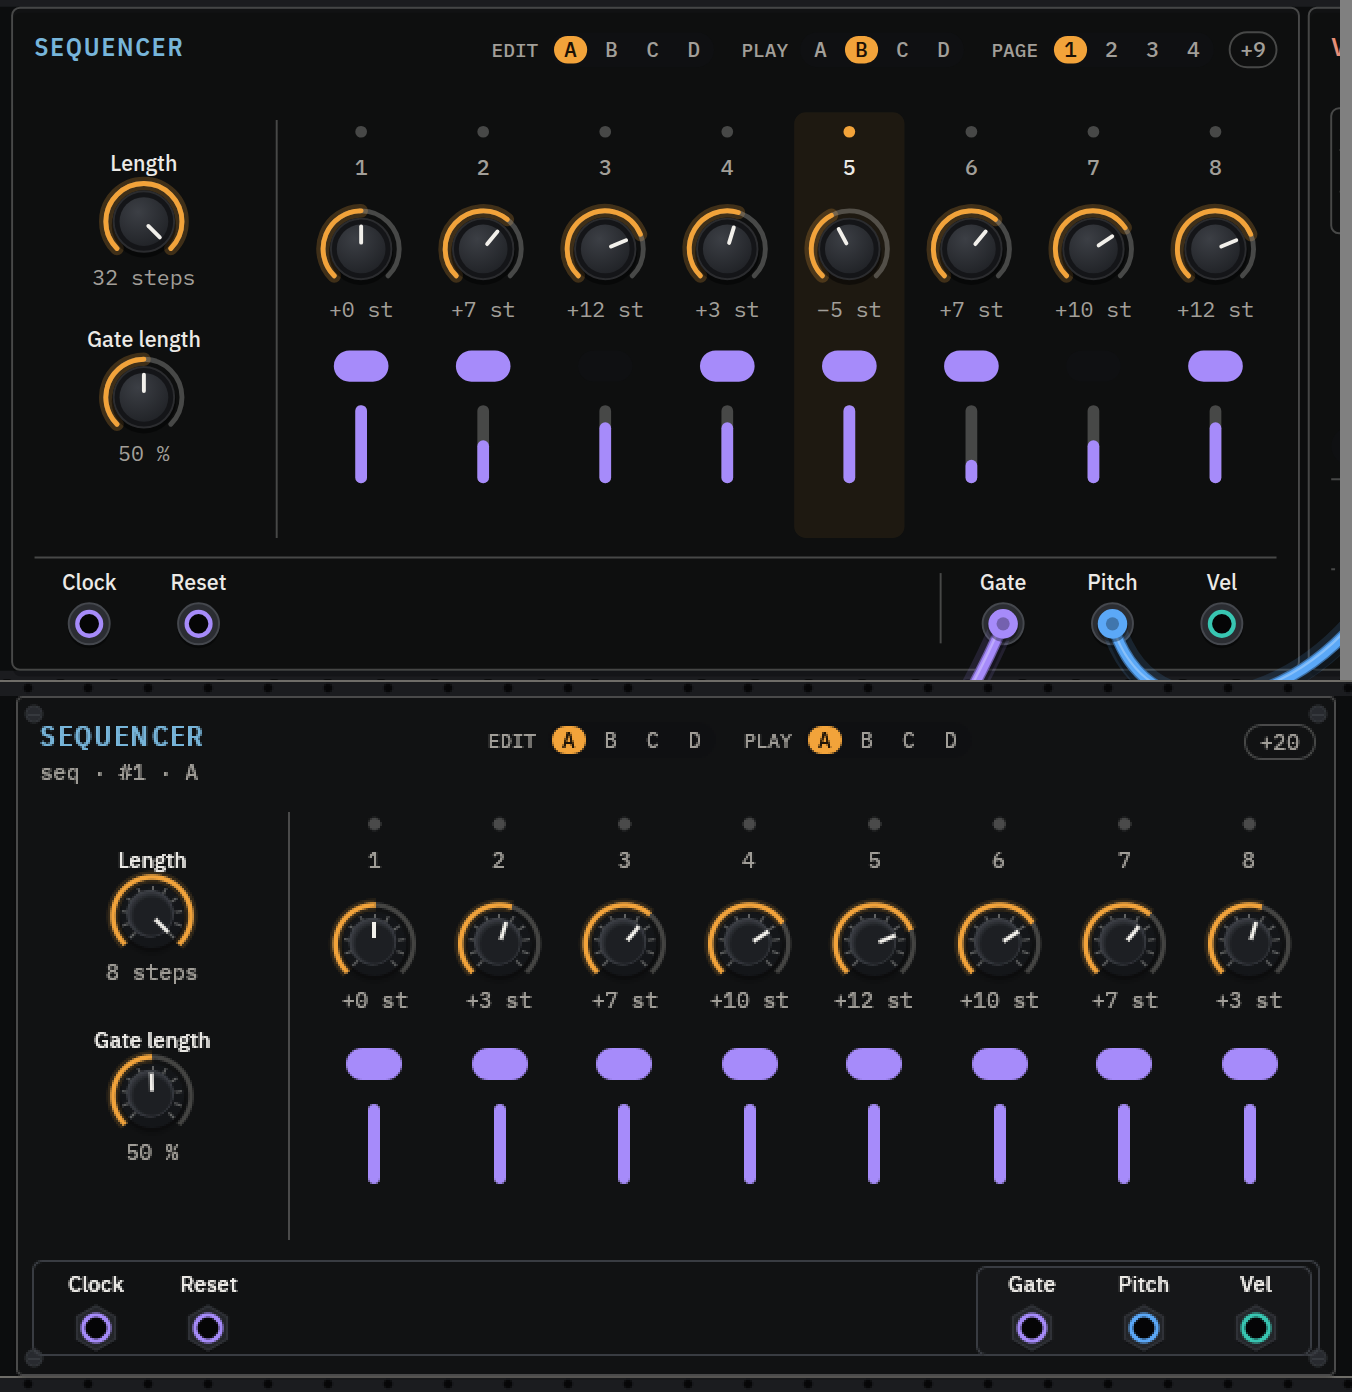
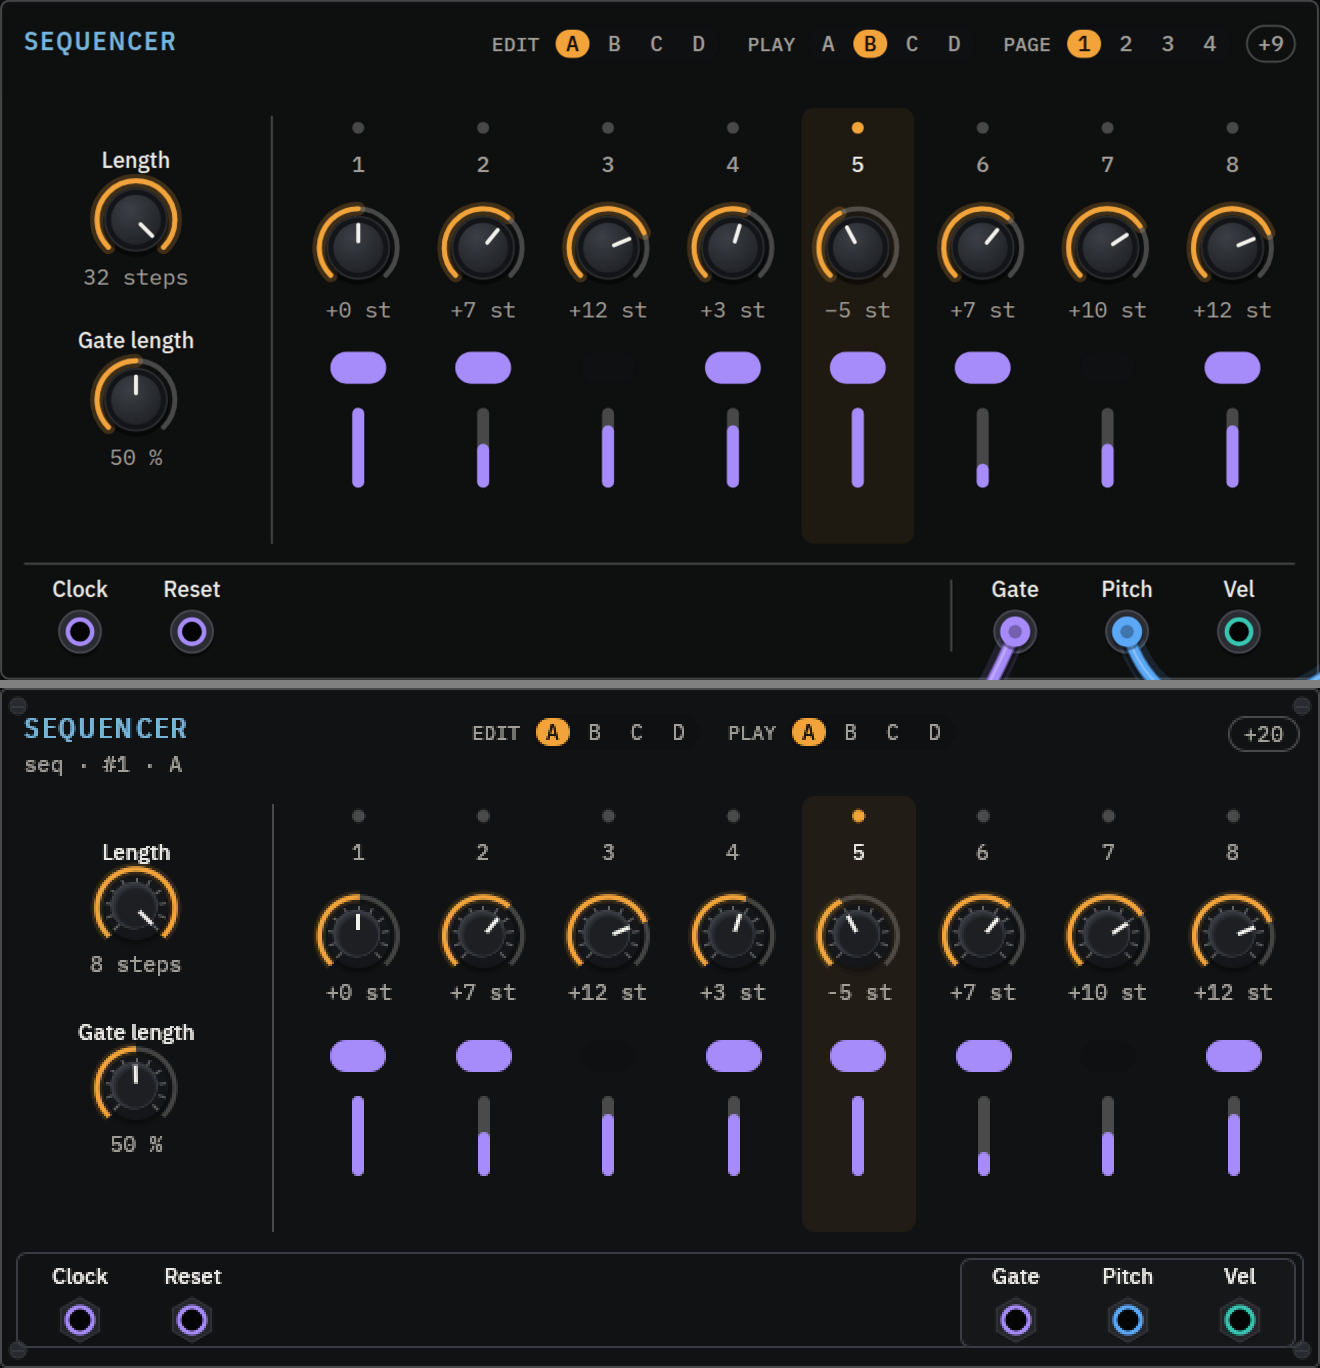
Sequencer captures in the mockup's state, mockup scaled to face size
face_capture gains KABL_CAPTURE_STEP to show a playing step. The mockup crop
is rendered at its rack zoom (0.976 of face size here); it is scaled back to
the 660 x 340 face so the two compare at the same size.

diff --git a/crates/ui/examples/face_capture.rs b/crates/ui/examples/face_capture.rs
@@ -128,6 +128,10 @@ impl eframe::App for App {
                     self.editor.set_param(id, k, v.parse().unwrap());
                 }
             }
+            // KABL_CAPTURE_STEP=4: a sequencer shows step 5 playing (0-based, no clock needed).
+            if let Ok(s) = std::env::var("KABL_CAPTURE_STEP") {
+                self.ui.seq_steps.insert(id, s.parse().unwrap());
+            }
         }
         self.ui.dark = j.dark;
         self.ui.zoom = j.zoom;
